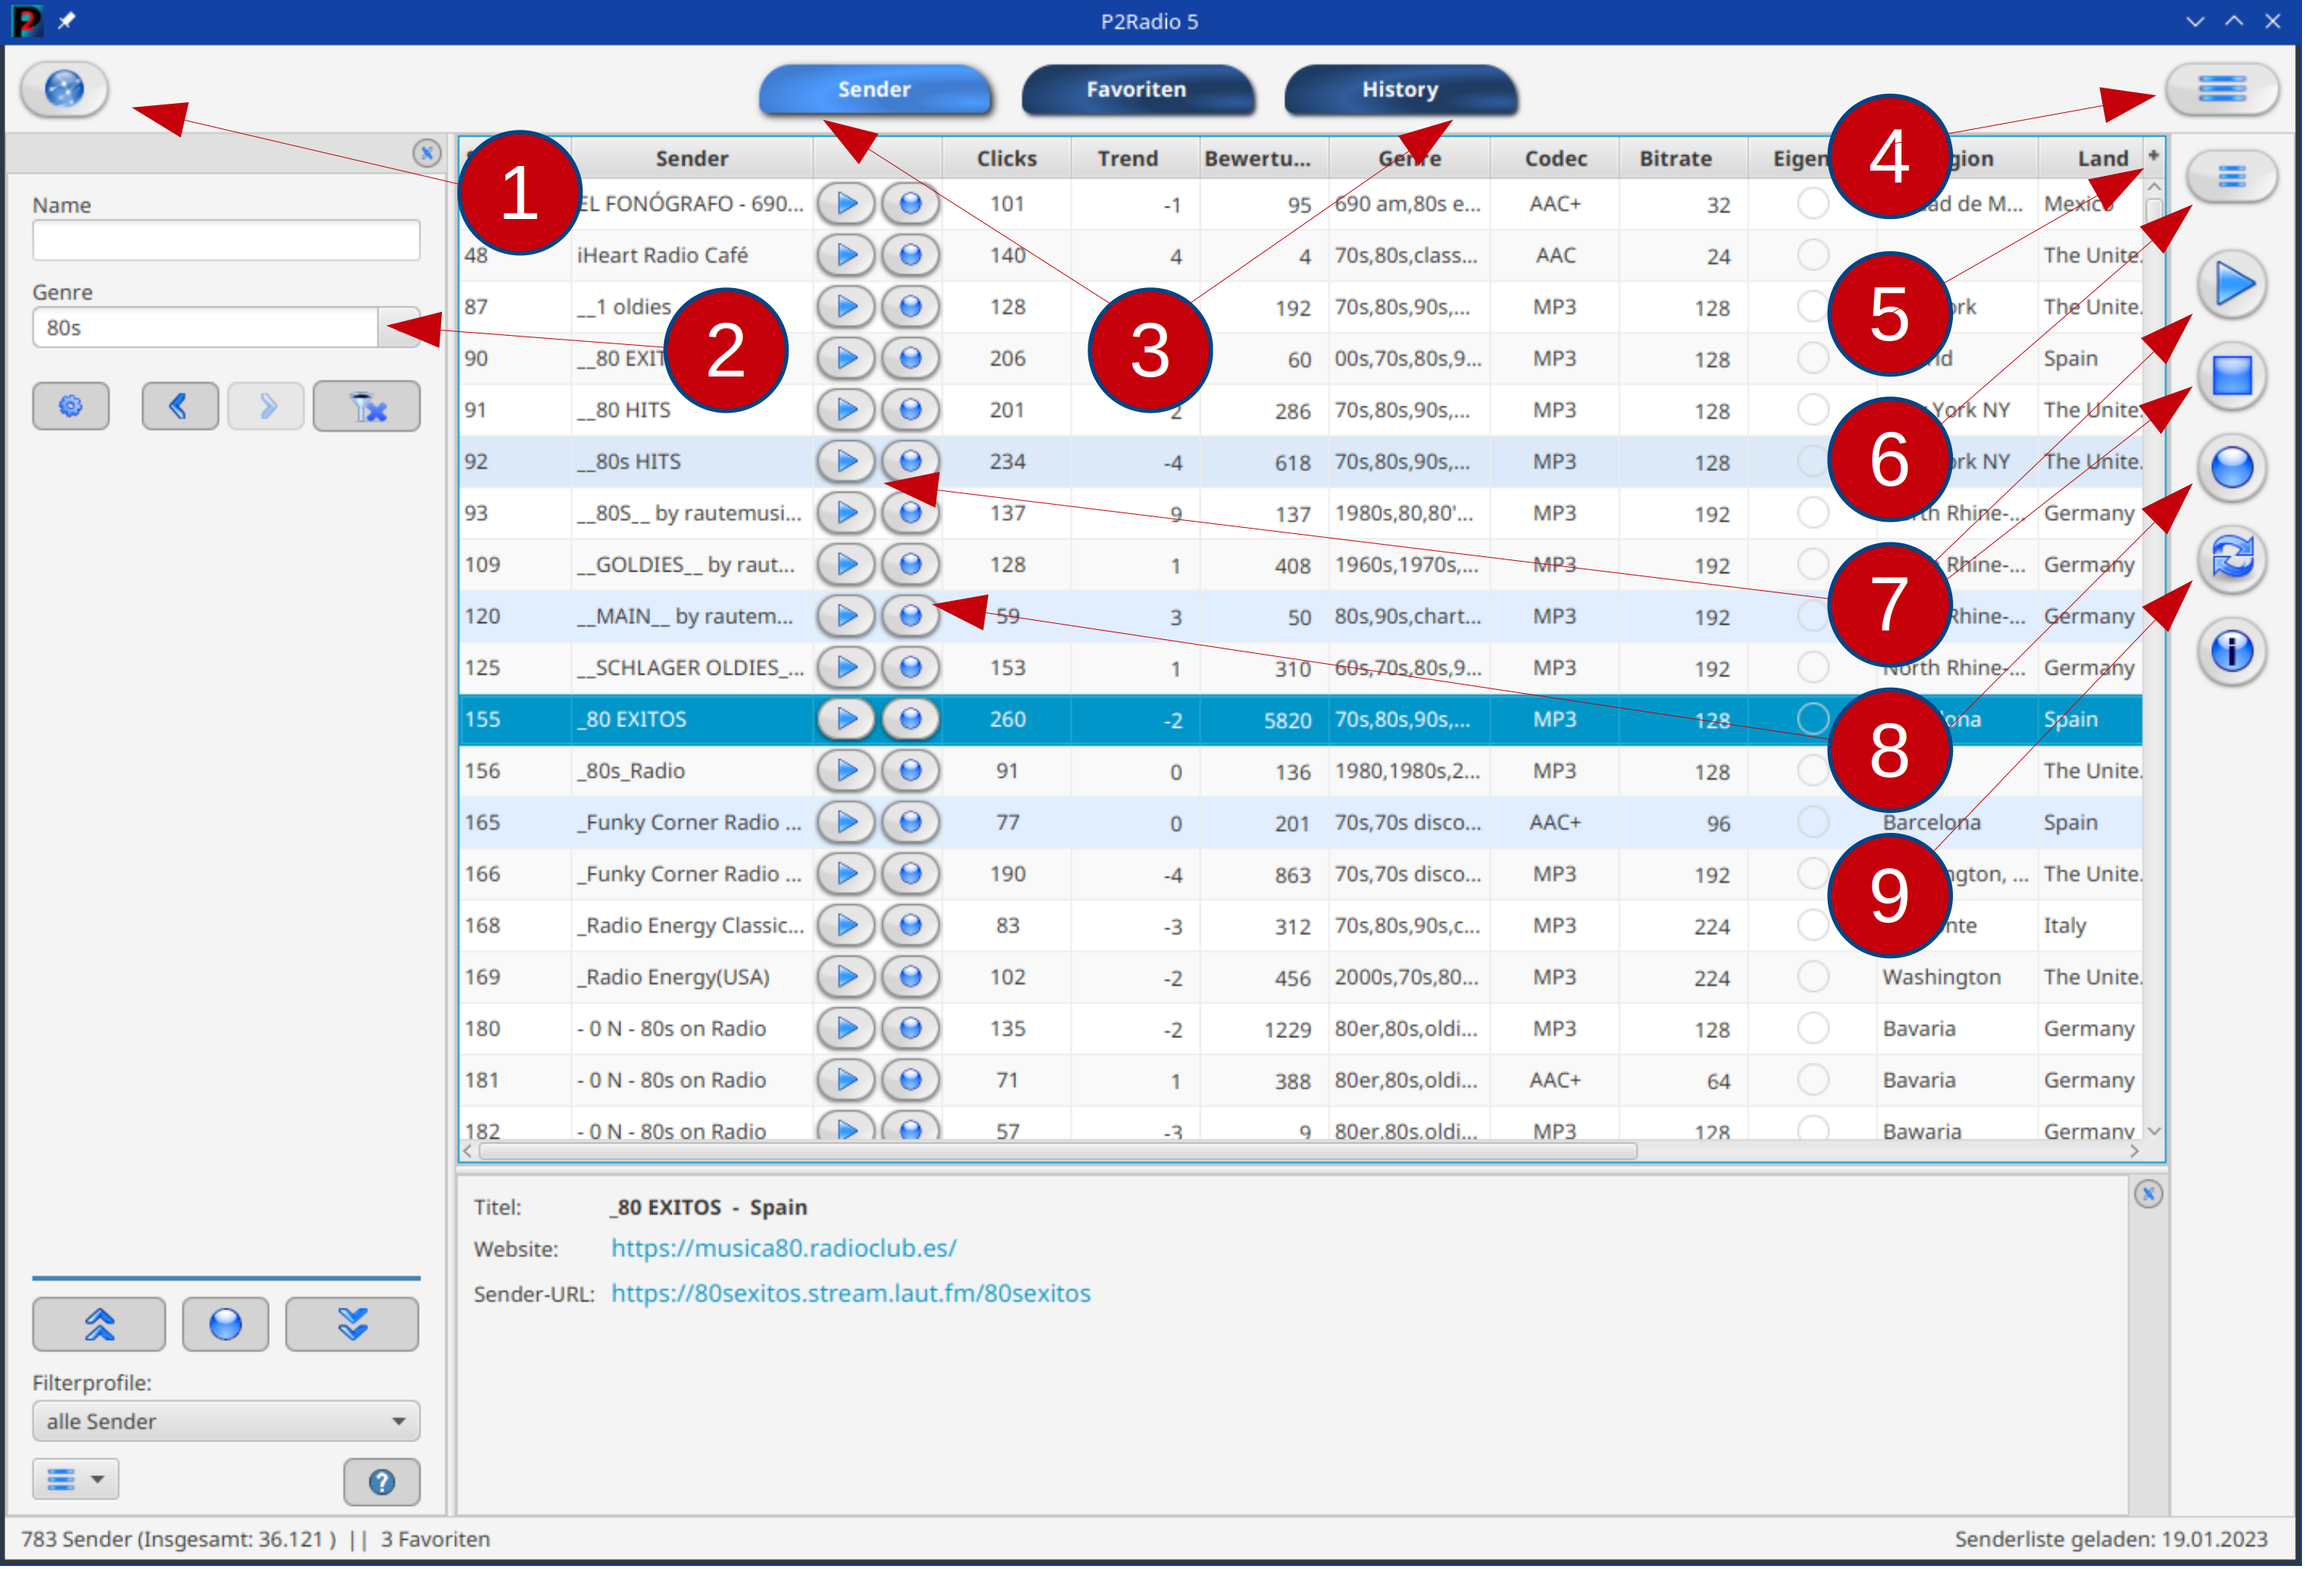
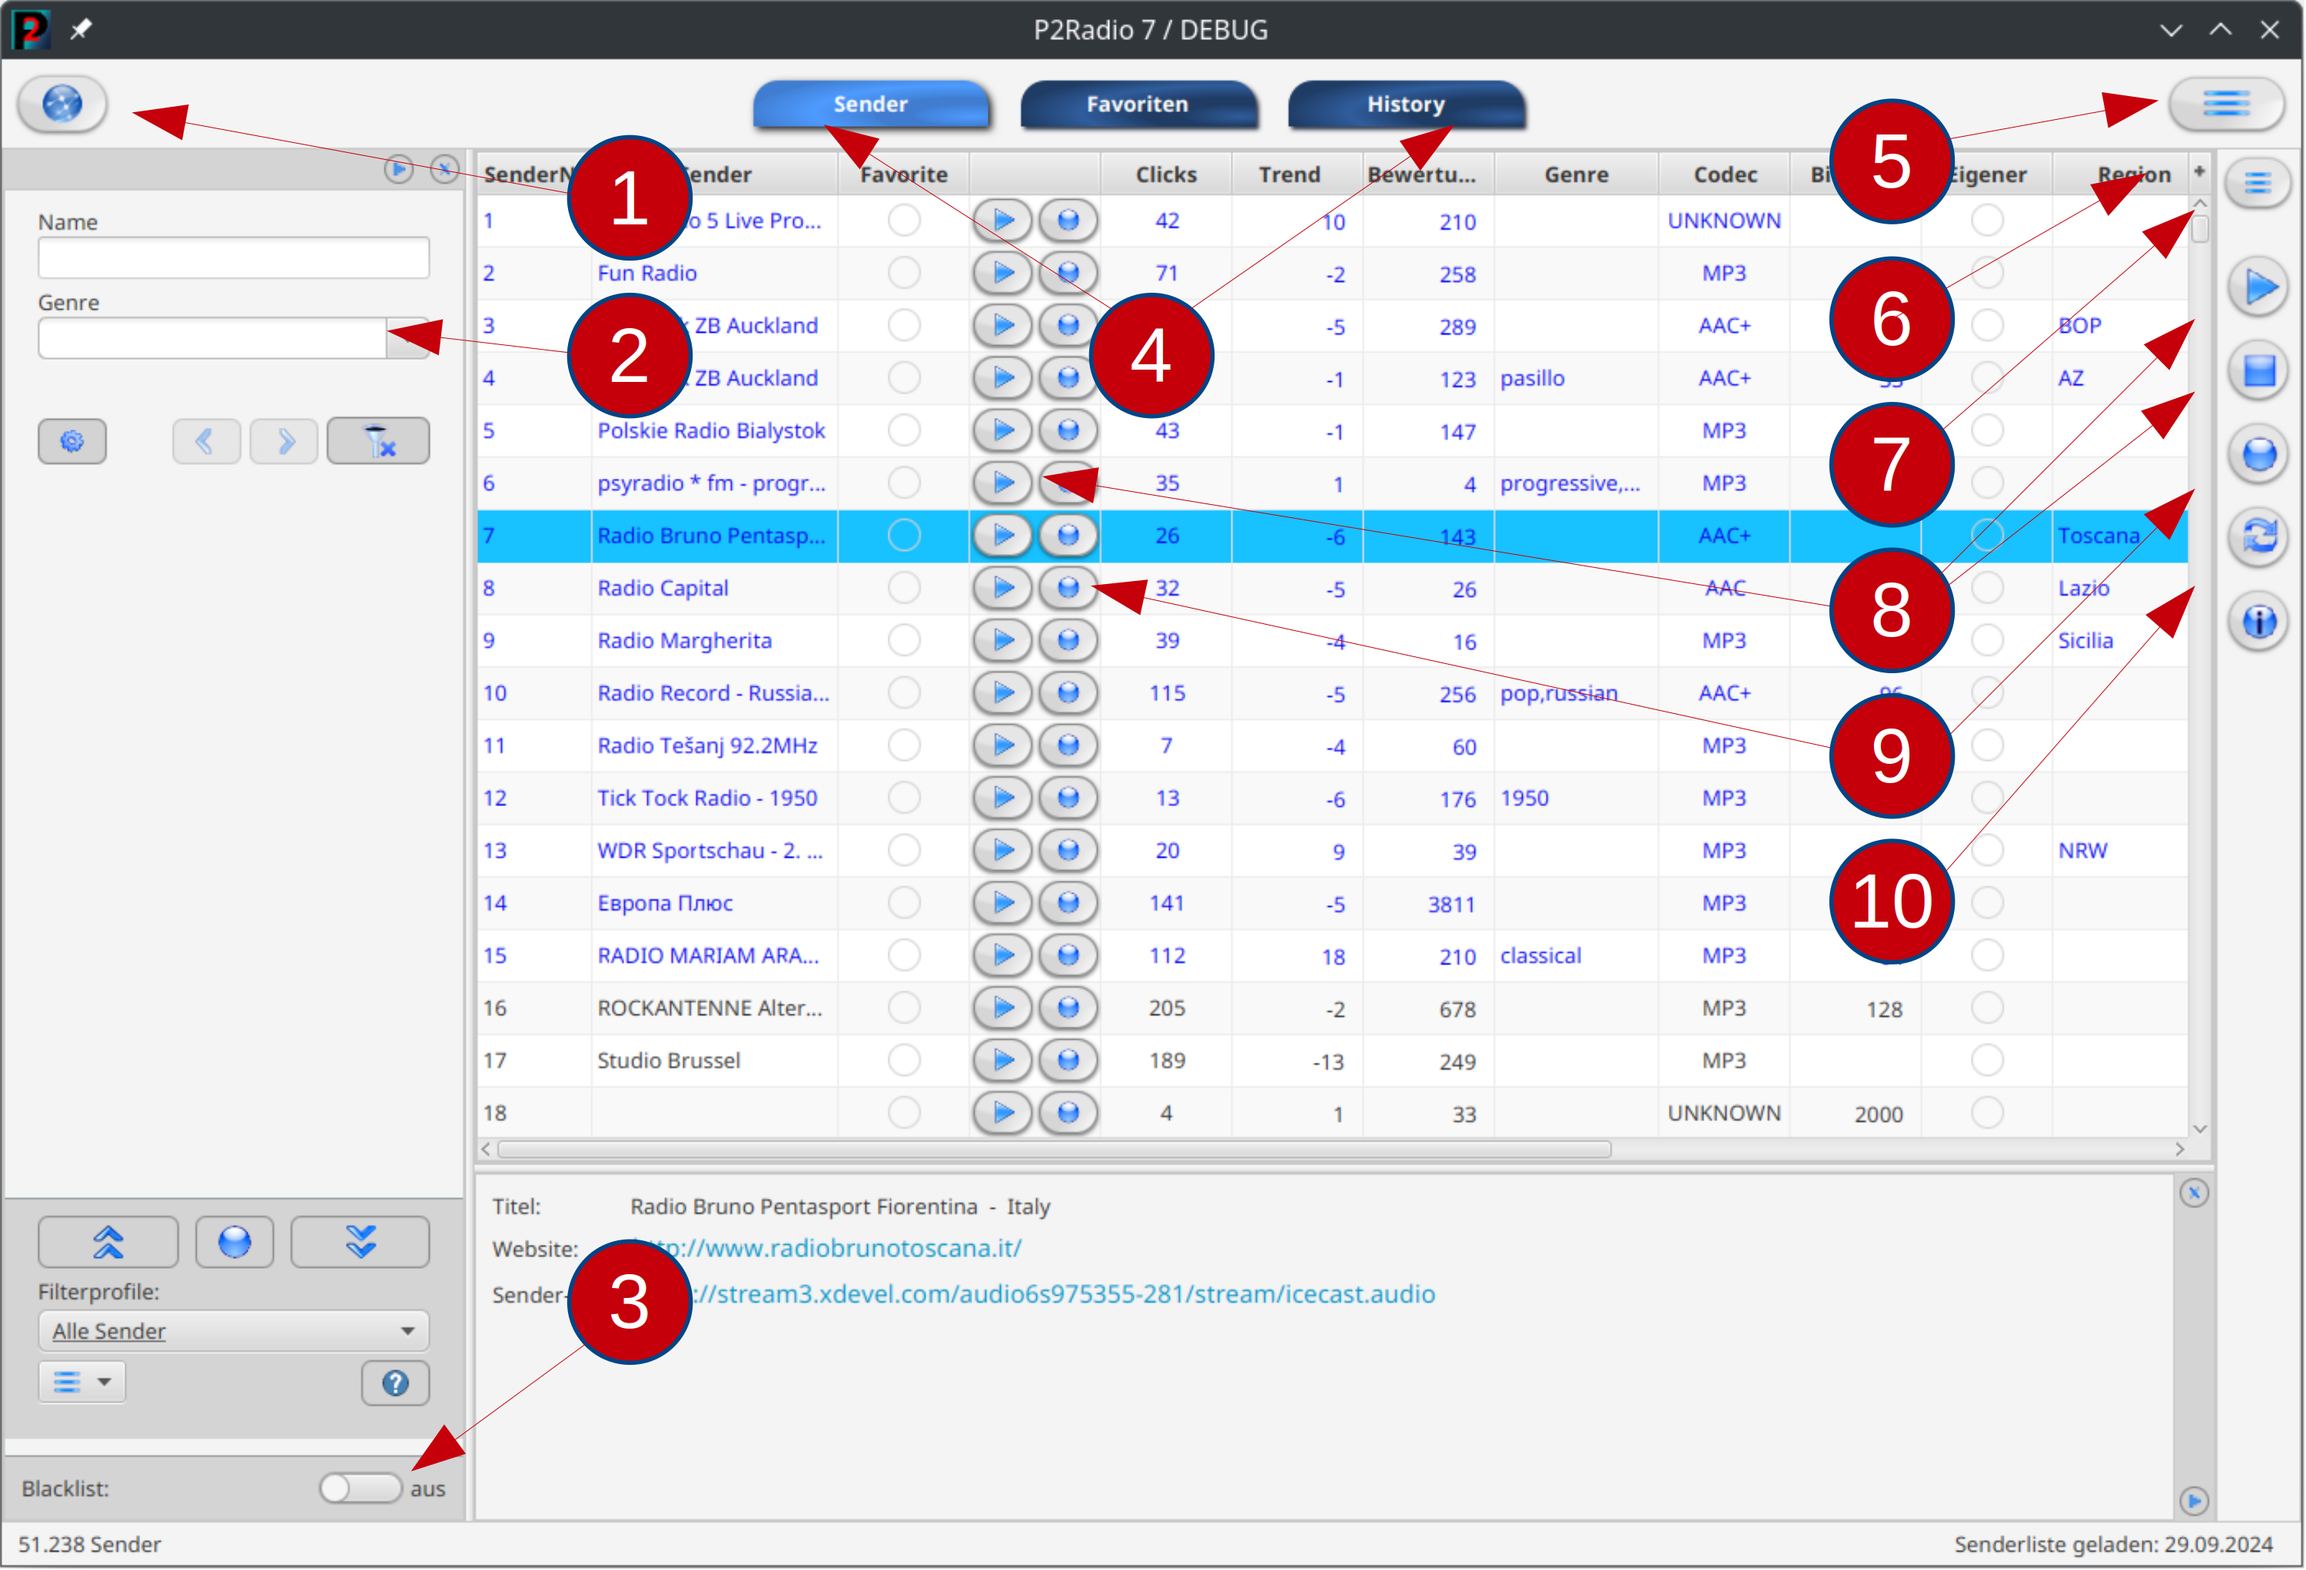
filter

diff --git a/src/main/resources/de/p2tools/p2radio/radioFx.css b/src/main/resources/de/p2tools/p2radio/radioFx.css
@@ -10,3 +10,9 @@
     -fx-underline: true;
 }
 
+.extra-pane-filter {
+    -fx-background-color: -style-extra-pane-color;
+    -fx-border-width: 1 0 0 0; /* makes really one-pixel-border */
+    -fx-border-color: #939a9f;
+}
+

diff --git a/src/main/java/de/p2tools/p2radio/gui/filter/StationFilterController.java b/src/main/java/de/p2tools/p2radio/gui/filter/StationFilterController.java
@@ -16,101 +16,31 @@
 
 package de.p2tools.p2radio.gui.filter;
 
-import de.p2tools.p2lib.P2LibConst;
-import de.p2tools.p2lib.guitools.ptoggleswitch.P2ToggleSwitch;
-import de.p2tools.p2lib.tools.events.P2Event;
-import de.p2tools.p2lib.tools.events.P2Listener;
-import de.p2tools.p2radio.controller.config.Events;
-import de.p2tools.p2radio.controller.config.ProgData;
 import de.p2tools.p2radio.gui.StationGuiPack;
-import de.p2tools.p2radio.tools.stationlistfilter.BlackFilterFactory;
-import javafx.geometry.Insets;
-import javafx.scene.control.Label;
-import javafx.scene.control.Separator;
-import javafx.scene.control.Tooltip;
-import javafx.scene.layout.HBox;
-import javafx.scene.layout.Priority;
 import javafx.scene.layout.VBox;
 
-public class StationFilterController extends VBox {
+public class StationFilterController extends FilterController {
 
-    private final VBox vBoxBottom;
-    private final ProgData progData;
-
-    private final P2ToggleSwitch tglBlacklist = new P2ToggleSwitch("Blacklist:");
-    private final StationGuiPack stationGuiPack;
     private final StationFilterControllerTextFilter sender;
     private final StationFilterControllerFilter filter;
     private final StationFilterControllerClearFilter clearFilter;
     private final StationFilterControllerProfiles profiles;
+    private final StationFilterBlackList blackList;
 
     public StationFilterController(StationGuiPack stationGuiPack) {
-//        super(ProgConfig.STATION_GUI_FILTER_DIVIDER_ON);
-        progData = ProgData.getInstance();
-        this.stationGuiPack = stationGuiPack;
-        setSpacing(P2LibConst.DIST_BUTTON);
-        setSpacing(0);
 
         sender = new StationFilterControllerTextFilter();//hat separator am ende??
         filter = new StationFilterControllerFilter();
         clearFilter = new StationFilterControllerClearFilter();
         profiles = new StationFilterControllerProfiles();
+        blackList = new StationFilterBlackList();
 
-        Separator sp = new Separator();
-        sp.getStyleClass().add("pseperator3");
-        sp.setMinHeight(0);
-        sp.setPadding(new Insets(0, P2LibConst.PADDING, P2LibConst.PADDING, P2LibConst.PADDING));
+        final VBox vBox = getVBoxFilter();
+        vBox.getChildren().addAll(sender,
+                filter,
+                clearFilter);
 
-//        setSpacing(P2LibConst.DIST_BUTTON);
-
-        VBox.setVgrow(clearFilter, Priority.ALWAYS);
-        getChildren().addAll(sender, filter, clearFilter, sp, profiles);
-
-        Label lblRight = new Label();
-        tglBlacklist.setAllowIndeterminate(true);
-        tglBlacklist.setLabelRight(lblRight, "ein", "aus", "nur");
-        tglBlacklist.setTooltip(new Tooltip("Blacklist ein- ausschalten oder nur Sender aus der Blacklist anzeigen"));
-        tglBlacklist.selectedProperty().bindBidirectional(progData.storedFilters.getActFilterSettings().blacklistOnProperty());
-        tglBlacklist.indeterminateProperty().bindBidirectional(progData.storedFilters.getActFilterSettings().blacklistOnlyProperty());
-
-        //Anzeige der Blacklist
-        HBox hBox = new HBox(5);
-        HBox.setHgrow(tglBlacklist, Priority.ALWAYS);
-        hBox.getChildren().addAll(tglBlacklist, lblRight);
-        vBoxBottom = getVBoxBottom();//zum Schluss, damit untern in der VBoxAll
-        vBoxBottom.getChildren().addAll(hBox);
-
-        progData.pEventHandler.addListener(new P2Listener(Events.BLACKLIST_CHANGED) {
-            public void pingGui(P2Event event) {
-                setBlack();
-            }
-        });
-        setBlack();
-    }
-
-    private VBox getVBoxBottom() {
-        VBox vBox = new VBox();
-        vBox.getStyleClass().add("extra-pane");
-        vBox.setPadding(new Insets(P2LibConst.PADDING));
-        vBox.setSpacing(P2LibConst.DIST_BUTTON);
-        vBox.setMaxWidth(Double.MAX_VALUE);
-        getChildren().addAll(vBox);
-        return vBox;
-    }
-
-    private void setBlack() {
-        if (BlackFilterFactory.isBlackEmpty()) {
-            //gibt keine Black-Einträge, dann auch die toggle "ausschalten"
-            progData.storedFilters.getActFilterSettings().setBlacklistOn(false);
-            progData.storedFilters.getActFilterSettings().setBlacklistOnly(false);
-            //und dann auch nicht anzeigen
-            vBoxBottom.setVisible(false);
-            vBoxBottom.setManaged(false);
-
-        } else {
-            //anzeigen
-            vBoxBottom.setVisible(true);
-            vBoxBottom.setManaged(true);
-        }
+        getVBoxBlack().getChildren().add(profiles);
+        getVBoxBlack().getChildren().add(blackList);
     }
 }

diff --git a/src/main/java/de/p2tools/p2radio/gui/filter/FilterController.java b/src/main/java/de/p2tools/p2radio/gui/filter/FilterController.java
@@ -1,0 +1,68 @@
+/*
+ * MTPlayer Copyright (C) 2017 W. Xaver W.Xaver[at]googlemail.com
+ * https://www.p2tools.de
+ *
+ * This program is free software: you can redistribute it and/or modify it under the terms of the
+ * GNU General Public License as published by the Free Software Foundation, either version 3 of the
+ * License, or any later version.
+ *
+ * This program is distributed in the hope that it will be useful, but WITHOUT ANY WARRANTY; without
+ * even the implied warranty of MERCHANTABILITY or FITNESS FOR A PARTICULAR PURPOSE. See the GNU
+ * General Public License for more details.
+ *
+ * You should have received a copy of the GNU General Public License along with this program. If
+ * not, see <http://www.gnu.org/licenses/>.
+ */
+
+package de.p2tools.p2radio.gui.filter;
+
+import de.p2tools.p2lib.P2LibConst;
+import javafx.geometry.Insets;
+import javafx.scene.control.Control;
+import javafx.scene.control.Label;
+import javafx.scene.layout.HBox;
+import javafx.scene.layout.Priority;
+import javafx.scene.layout.VBox;
+
+public class FilterController extends VBox {
+
+    public static final int FILTER_SPACING_TEXTFILTER = 10;
+
+    public FilterController() {
+        setSpacing(P2LibConst.SPACING_VBOX);
+        VBox.setVgrow(this, Priority.ALWAYS);
+    }
+
+    public VBox getVBoxFilter() {
+        VBox vbox = new VBox();
+        vbox.setPadding(new Insets(P2LibConst.PADDING));
+        vbox.setSpacing(FILTER_SPACING_TEXTFILTER);
+        VBox.setVgrow(vbox, Priority.ALWAYS);
+        getChildren().addAll(vbox);
+        return vbox;
+    }
+
+    public VBox getVBoxBlack() {
+        VBox vBox = new VBox();
+        vBox.getStyleClass().add("extra-pane-filter");
+        vBox.setPadding(new Insets(P2LibConst.PADDING));
+        vBox.setSpacing(FILTER_SPACING_TEXTFILTER);
+        getChildren().addAll(vBox);
+        return vBox;
+    }
+
+    public void addCont(String txt, Control control, VBox vBox) {
+        control.setMaxSize(Double.MAX_VALUE, Double.MAX_VALUE);
+        VBox v = new VBox(2);
+        Label label = new Label(txt);
+        v.getChildren().addAll(label, control);
+        vBox.getChildren().add(v);
+    }
+
+    public void addCont(HBox txt, Control control, VBox vBox) {
+        control.setMaxSize(Double.MAX_VALUE, Double.MAX_VALUE);
+        VBox v = new VBox(2);
+        v.getChildren().addAll(txt, control);
+        vBox.getChildren().add(v);
+    }
+}

diff --git a/src/main/java/de/p2tools/p2radio/gui/startdialog/StartPane.java b/src/main/java/de/p2tools/p2radio/gui/startdialog/StartPane.java
@@ -55,32 +55,36 @@ public class StartPane {
                 "Sender gefiltert werden." +
 
                 P2LibConst.LINE_SEPARATORx2 +
-                "3) Die Ansicht der Sender, Favoriten und" + P2LibConst.LINE_SEPARATOR +
+                "3) Hier kann die Blacklist" + P2LibConst.LINE_SEPARATOR +
+                "ein- und ausgeschaltet werden" +
+
+                P2LibConst.LINE_SEPARATORx2 +
+                "4) Die Ansicht der Sender, Favoriten und" + P2LibConst.LINE_SEPARATOR +
                 "der History wird hier umgeschaltet." +
 
                 P2LibConst.LINE_SEPARATORx2 +
-                "4) In dem Menü befinden sich" + P2LibConst.LINE_SEPARATOR +
+                "5) In dem Menü befinden sich" + P2LibConst.LINE_SEPARATOR +
                 "die Programmeinstellungen." +
 
                 P2LibConst.LINE_SEPARATORx2 +
-                "5) Mit dem Pluszeichen können" + P2LibConst.LINE_SEPARATOR +
+                "6) Mit dem Pluszeichen können" + P2LibConst.LINE_SEPARATOR +
                 "Spalten in der Tabelle" + P2LibConst.LINE_SEPARATOR +
                 "ein- und ausgeblendet werden." +
 
                 P2LibConst.LINE_SEPARATORx2 +
-                "6) In dem Menü können Sender gestartet" + P2LibConst.LINE_SEPARATOR +
+                "7) In dem Menü können Sender gestartet" + P2LibConst.LINE_SEPARATOR +
                 "und verarbeitet werden." +
 
                 P2LibConst.LINE_SEPARATORx2 +
-                "7) Damit können Sender gestartet" + P2LibConst.LINE_SEPARATOR +
+                "8) Damit können Sender gestartet" + P2LibConst.LINE_SEPARATOR +
                 "und gestoppt werden." +
 
                 P2LibConst.LINE_SEPARATORx2 +
-                "8) Damit können Sender zu" + P2LibConst.LINE_SEPARATOR +
+                "9) Damit können Sender zu" + P2LibConst.LINE_SEPARATOR +
                 "den Favoriten hinzugefügt werden." +
 
                 P2LibConst.LINE_SEPARATORx2 +
-                "9) Hier kann ein zufälliger Sender" + P2LibConst.LINE_SEPARATOR +
+                "10) Hier kann ein zufälliger Sender" + P2LibConst.LINE_SEPARATOR +
                 "zum Abspielen ausgewählt werden.");
 
         hBox.getChildren().addAll(iv, text);

diff --git a/src/main/java/de/p2tools/p2radio/gui/filter/StationFilterBlackList.java b/src/main/java/de/p2tools/p2radio/gui/filter/StationFilterBlackList.java
@@ -1,0 +1,48 @@
+/*
+ * Copyright (C) 2017 W. Xaver W.Xaver[at]googlemail.com
+ * https://www.p2tools.de
+ *
+ * This program is free software: you can redistribute it and/or modify it under the terms of the
+ * GNU General Public License as published by the Free Software Foundation, either version 3 of the
+ * License, or any later version.
+ *
+ * This program is distributed in the hope that it will be useful, but WITHOUT ANY WARRANTY; without
+ * even the implied warranty of MERCHANTABILITY or FITNESS FOR A PARTICULAR PURPOSE. See the GNU
+ * General Public License for more details.
+ *
+ * You should have received a copy of the GNU General Public License along with this program. If
+ * not, see <http://www.gnu.org/licenses/>.
+ */
+
+package de.p2tools.p2radio.gui.filter;
+
+import de.p2tools.p2lib.guitools.ptoggleswitch.P2ToggleSwitch;
+import de.p2tools.p2radio.controller.config.ProgData;
+import javafx.geometry.Pos;
+import javafx.scene.control.Label;
+import javafx.scene.control.Tooltip;
+import javafx.scene.layout.HBox;
+import javafx.scene.layout.Priority;
+
+public class StationFilterBlackList extends HBox {
+
+    private final ProgData progData;
+
+    private final P2ToggleSwitch tglBlacklist = new P2ToggleSwitch("Blacklist:");
+
+    public StationFilterBlackList() {
+        progData = ProgData.getInstance();
+
+        Label lblRight = new Label();
+        tglBlacklist.setAllowIndeterminate(true);
+        tglBlacklist.setLabelRight(lblRight, "ein", "aus", "nur");
+        tglBlacklist.setTooltip(new Tooltip("Blacklist ein- ausschalten oder nur Sender aus der Blacklist anzeigen"));
+        tglBlacklist.selectedProperty().bindBidirectional(progData.storedFilters.getActFilterSettings().blacklistOnProperty());
+        tglBlacklist.indeterminateProperty().bindBidirectional(progData.storedFilters.getActFilterSettings().blacklistOnlyProperty());
+
+        setSpacing(5);
+        setAlignment(Pos.CENTER_RIGHT);
+        HBox.setHgrow(tglBlacklist, Priority.ALWAYS);
+        getChildren().addAll(tglBlacklist, lblRight);
+    }
+}
